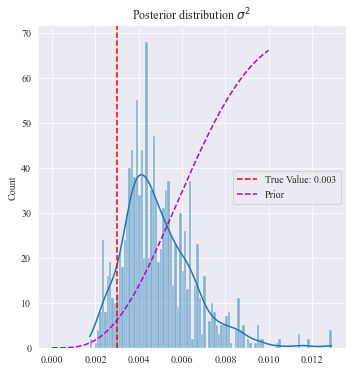
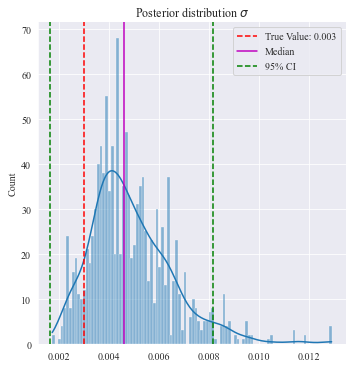
kjør

diff --git a/InferNoise/InferNoise.py b/InferNoise/InferNoise.py
@@ -8,6 +8,7 @@ Created on Tue Nov 24 17:43:36 2020
 import numpy as np              
 import matplotlib.pyplot as plt 
 from scipy.stats import gamma
+#from scipy import stats
 #import seaborn as sns
 from numba import njit
 @njit
@@ -193,8 +194,8 @@ binsize = 1/200.0
 P = 1000
 U = 100
 it = 1500
-shapes_prior = 0.025
-rates_prior = 5
+shapes_prior = 5
+rates_prior = 800
 
 '''
 estimate_noise = False 
@@ -241,40 +242,68 @@ while (w0est3 < 0.97 or w0est3 > 1.03):
 
 StdEst3 = MHsampler2(w0est3,b2est3,shapes_prior,rates_prior,s13,s23,P,binsize,seconds,U,it,Ap,tau)
 
-np.save('NoiseInf0.0005Cl1',StdEst2)
-np.save('NoiseInf0.001Cl1',StdEst)
-np.save('NoiseInf0.003Cl1',StdEst3)
+np.save('NoiseInf0.0005_beta800',StdEst2)
+np.save('NoiseInf0.001_beta800',StdEst)
+np.save('NoiseInf0.003_beta800',StdEst3)
+
 
 '''
-x = np.linspace(0,1,100000)
+x = np.linspace(0,0.05,100000)
 prior = gamma.pdf(x,a=shapes_prior,scale=1/rates_prior)
+prior2 = gamma.pdf(x,a=5,scale=1/800)
 
-StdEst = np.load('NoiseInf0.001Cl1.npy')
-StdEst2= np.load('NoiseInf0.0005Cl1.npy')
-StdEst3 = np.load('NoiseInf0.003Cl1.npy')
+StdEst = np.load('NoiseInf0.001.npy')
+StdEst2= np.load('NoiseInf0.0005.npy')
+StdEst3 = np.load('NoiseInf0.003.npy')
+
+StdEstCl = np.load('NoiseInf0.001Cl1.npy')
+StdEstCl2 = np.load('NoiseInf0.0005Cl1.npy')
+StdEstCl3 = np.load('NoiseInf0.003Cl1.npy')
+
+
+med1 = np.median(StdEst[300:])
+med2 =np.median(StdEst2[300:])
+med3=np.median(StdEst3[300:])
+
+#medcl1=np.median(StdEstCl[300:])
+#medcl2=np.median(StdEstCl2[300:])
+#medcl3=np.median(StdEstCl3[300:])
+
+ci1 = stats.norm.interval(0.95,np.mean(StdEst[300:]),np.sqrt(np.var(StdEst[300:])))
+ci2 = stats.norm.interval(0.95,np.mean(StdEst2[300:]),np.sqrt(np.var(StdEst2[300:])))
+ci3 = stats.norm.interval(0.95,np.mean(StdEst3[300:]),np.sqrt(np.var(StdEst3[300:])))
+
+#cicl1 = stats.norm.interval(0.95,np.mean(StdEstCl[300:]),np.sqrt(np.var(StdEstCl[300:])))
+#cicl2 = stats.norm.interval(0.95,np.mean(StdEstCl2[300:]),np.sqrt(np.var(StdEstCl2[300:])))
+#cicl3 = stats.norm.interval(0.95,np.mean(StdEstCl3[300:]),np.sqrt(np.var(StdEstCl3[300:])))
 
 
 plt.figure()
 #sns.displot(StdEst[300:], kde=True,bins=100)
-#plt.xlim([0.004,0.007])
+plt.xlim([0,0.05])
 #plt.axvline(0.001,color='r',linestyle='--',label='True Value: 0.001')
-plt.plot(x,prior,'m--',label='Prior')
+#plt.plot(x,prior,label=r'$\alpha = 0.025, \beta = 5$')
+plt.plot(x,prior2,label=r'$\alpha = 5,  \beta = 350$')
 #plt.plot(X,DensAp1.pdf(X),label='Scipy')
 plt.title('Prior distribution $\sigma$')
-#plt.axvline(np.mean(Theta1[300:,0]),label = 'mean')
+plt.xlabel('x')
+#plt.axvline(med1,linestyle = '-', color = 'm',label = 'Median')
+#plt.axvline(ci1[0],color='g',linestyle='--')
+#plt.axvline(ci1[1],color='g',linestyle='--',label='95% CI')
 #plt.axvline(Map_x,color='g',linestyle='--',label='MAP')
 plt.legend()
 plt.show()
-'''
-'''
+
 plt.figure()
 sns.displot(StdEst2[300:], kde=True,bins=100)
 #plt.xlim([0.004,0.007])
 plt.axvline(0.0005,color='r',linestyle='--',label='True Value: 0.0005')
-plt.plot(x,prior,'m--',label='Prior')
+#plt.plot(x,prior,'m--',label='Prior')
 #plt.plot(X,DensAp1.pdf(X),label='Scipy')
-plt.title('Posterior distribution $\sigma^2$')
-#plt.axvline(np.mean(Theta1[300:,0]),label = 'mean')
+plt.title('Posterior distribution $\sigma$')
+plt.axvline(med2,linestyle = '-', color = 'm',label = 'Median')
+plt.axvline(ci2[0],color='g',linestyle='--')
+plt.axvline(ci2[1],color='g',linestyle='--',label='95% CI')
 #plt.axvline(Map_x,color='g',linestyle='--',label='MAP')
 plt.legend()
 plt.show()
@@ -283,10 +312,54 @@ plt.figure()
 sns.displot(StdEst3[300:], kde=True,bins=100)
 #plt.xlim([0.004,0.007])
 plt.axvline(0.003,color='r',linestyle='--',label='True Value: 0.003')
-plt.plot(x,prior,'m--',label='Prior')
+#plt.plot(x,prior,'m--',label='Prior')
 #plt.plot(X,DensAp1.pdf(X),label='Scipy')
-plt.title('Posterior distribution $\sigma^2$')
-#plt.axvline(np.mean(Theta1[300:,0]),label = 'mean')
+plt.title('Posterior distribution $\sigma$')
+plt.axvline(med3,linestyle = '-', color = 'm',label = 'Median')
+plt.axvline(ci3[0],color='g',linestyle='--')
+plt.axvline(ci3[1],color='g',linestyle='--',label='95% CI')
+#plt.axvline(Map_x,color='g',linestyle='--',label='MAP')
+plt.legend()
+plt.show()
+
+plt.figure()
+sns.displot(StdEstCl[300:], kde=True,bins=100)
+#plt.xlim([0.004,0.007])
+plt.axvline(0.001,color='r',linestyle='--',label='True Value: 0.001')
+#plt.plot(x,prior,'m--',label='Prior')
+#plt.plot(X,DensAp1.pdf(X),label='Scipy')
+plt.title('Posterior distribution $\sigma$')
+plt.axvline(medcl1,linestyle = '-', color = 'm',label = 'Median')
+plt.axvline(cicl1[0],color='g',linestyle='--')
+plt.axvline(cicl1[1],color='g',linestyle='--',label='95% CI')
+#plt.axvline(Map_x,color='g',linestyle='--',label='MAP')
+plt.legend()
+plt.show()
+
+plt.figure()
+sns.displot(StdEstCl2[300:], kde=True,bins=100)
+#plt.xlim([0.004,0.007])
+plt.axvline(0.0005,color='r',linestyle='--',label='True Value: 0.0005')
+#plt.plot(x,prior,'m--',label='Prior')
+#plt.plot(X,DensAp1.pdf(X),label='Scipy')
+plt.title('Posterior distribution $\sigma$')
+plt.axvline(medcl2,linestyle = '-', color = 'm',label = 'Median')
+plt.axvline(cicl2[0],color='g',linestyle='--')
+plt.axvline(cicl2[1],color='g',linestyle='--',label='95% CI')
+#plt.axvline(Map_x,color='g',linestyle='--',label='MAP')
+plt.legend()
+plt.show()
+
+plt.figure()
+sns.displot(StdEstCl3[300:], kde=True,bins=100)
+#plt.xlim([0.004,0.007])
+plt.axvline(0.003,color='r',linestyle='--',label='True Value: 0.003')
+#plt.plot(x,prior,'m--',label='Prior')
+#plt.plot(X,DensAp1.pdf(X),label='Scipy')
+plt.title('Posterior distribution $\sigma$')
+plt.axvline(medcl3,linestyle = '-', color = 'm',label = 'Median')
+plt.axvline(cicl3[0],color='g',linestyle='--')
+plt.axvline(cicl3[1],color='g',linestyle='--',label='95% CI')
 #plt.axvline(Map_x,color='g',linestyle='--',label='MAP')
 plt.legend()
 plt.show()

diff --git a/RealData/ReadMat.py b/RealData/ReadMat.py
@@ -113,7 +113,7 @@ plt.show()
 Potential interesting connections so far?
 Data19110: index 11v23, index 11v24
 Data19109: index 2v4
-Data19113: index 11v3!!!
+Data19113: index 11v3!!! (første test)
 Data18231 index 4v21?, GOD KANTIDAT: 7v32 (fra bin 30000:)??
 '''
 
